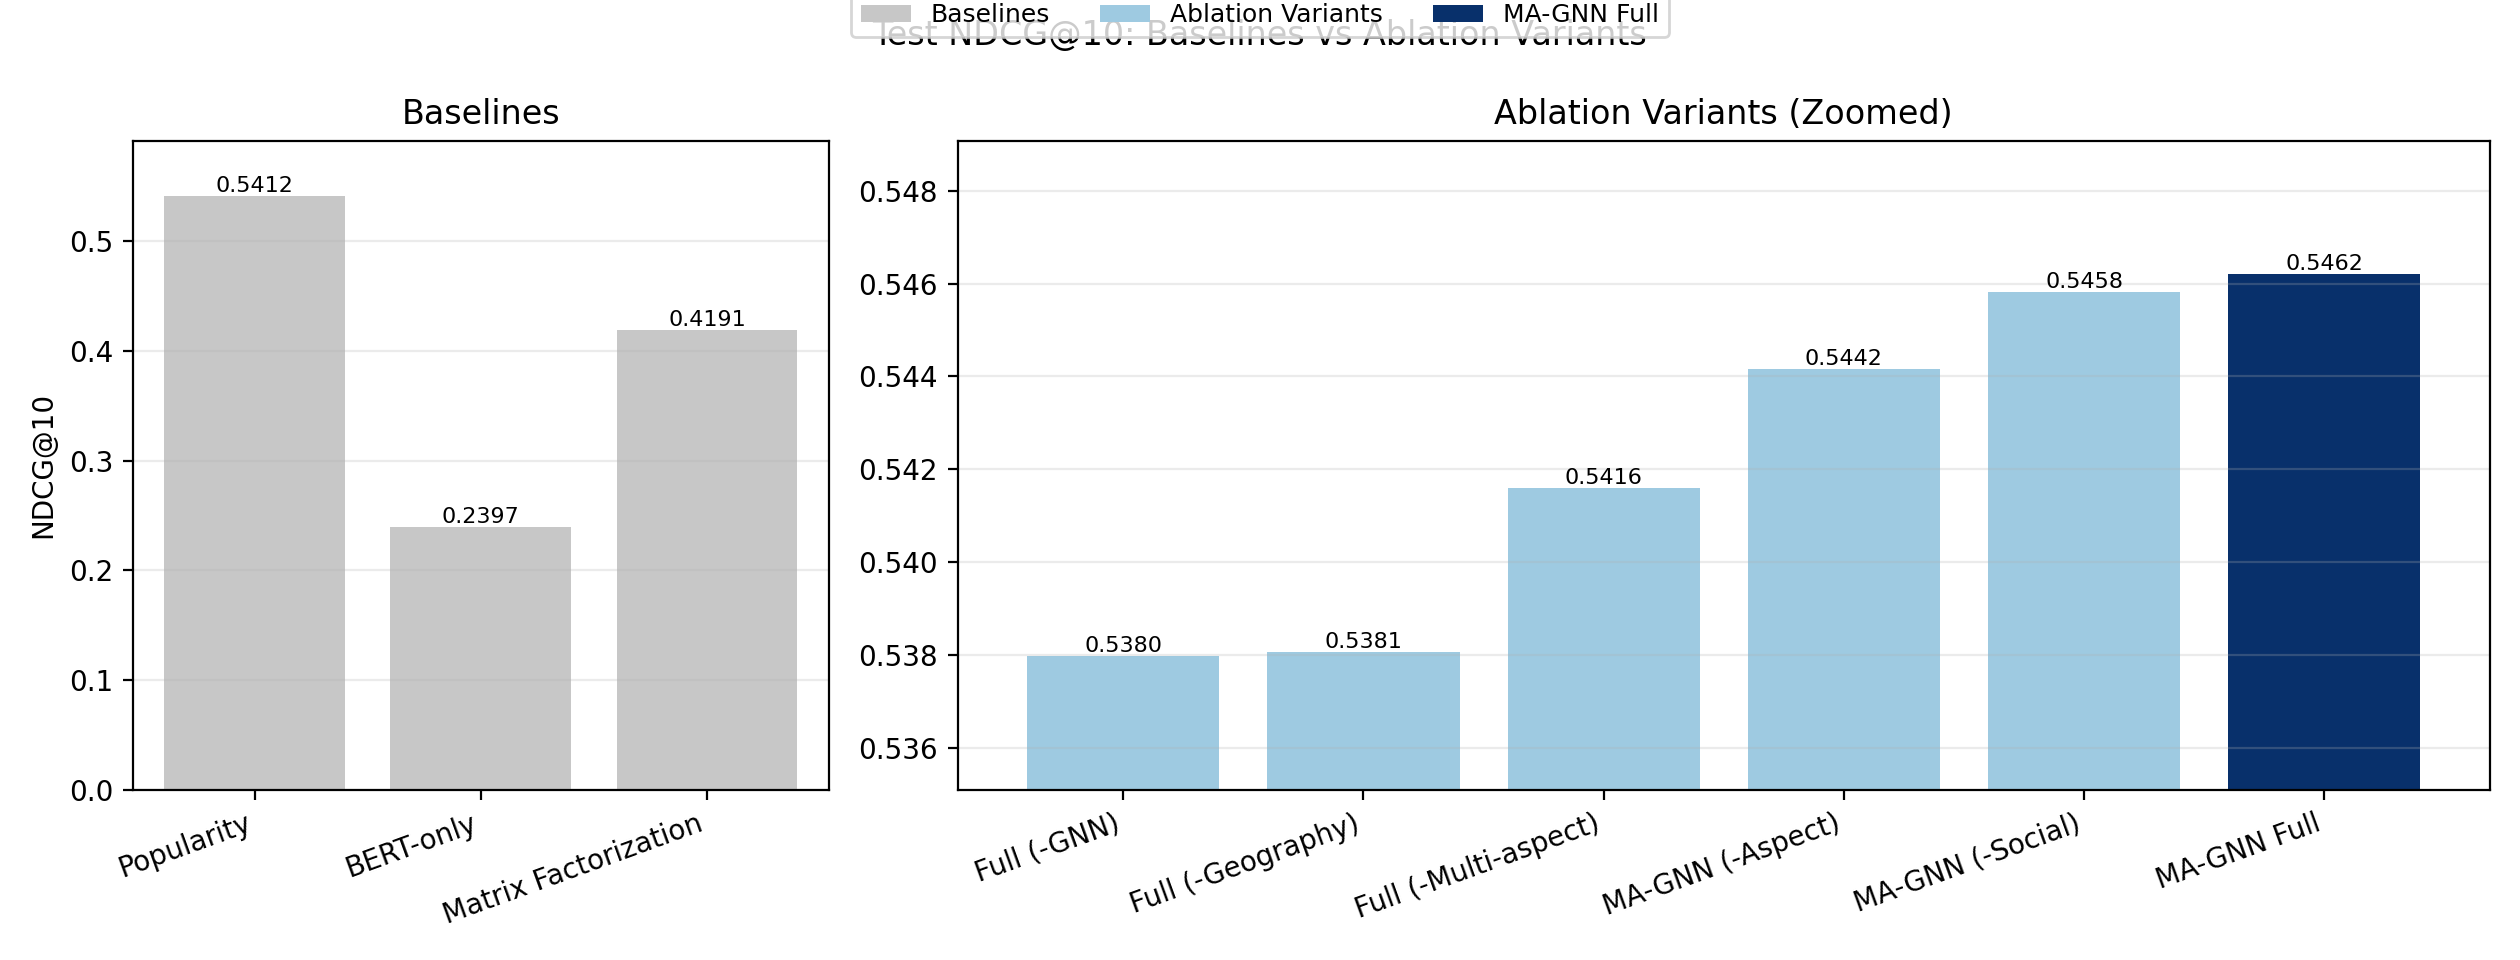
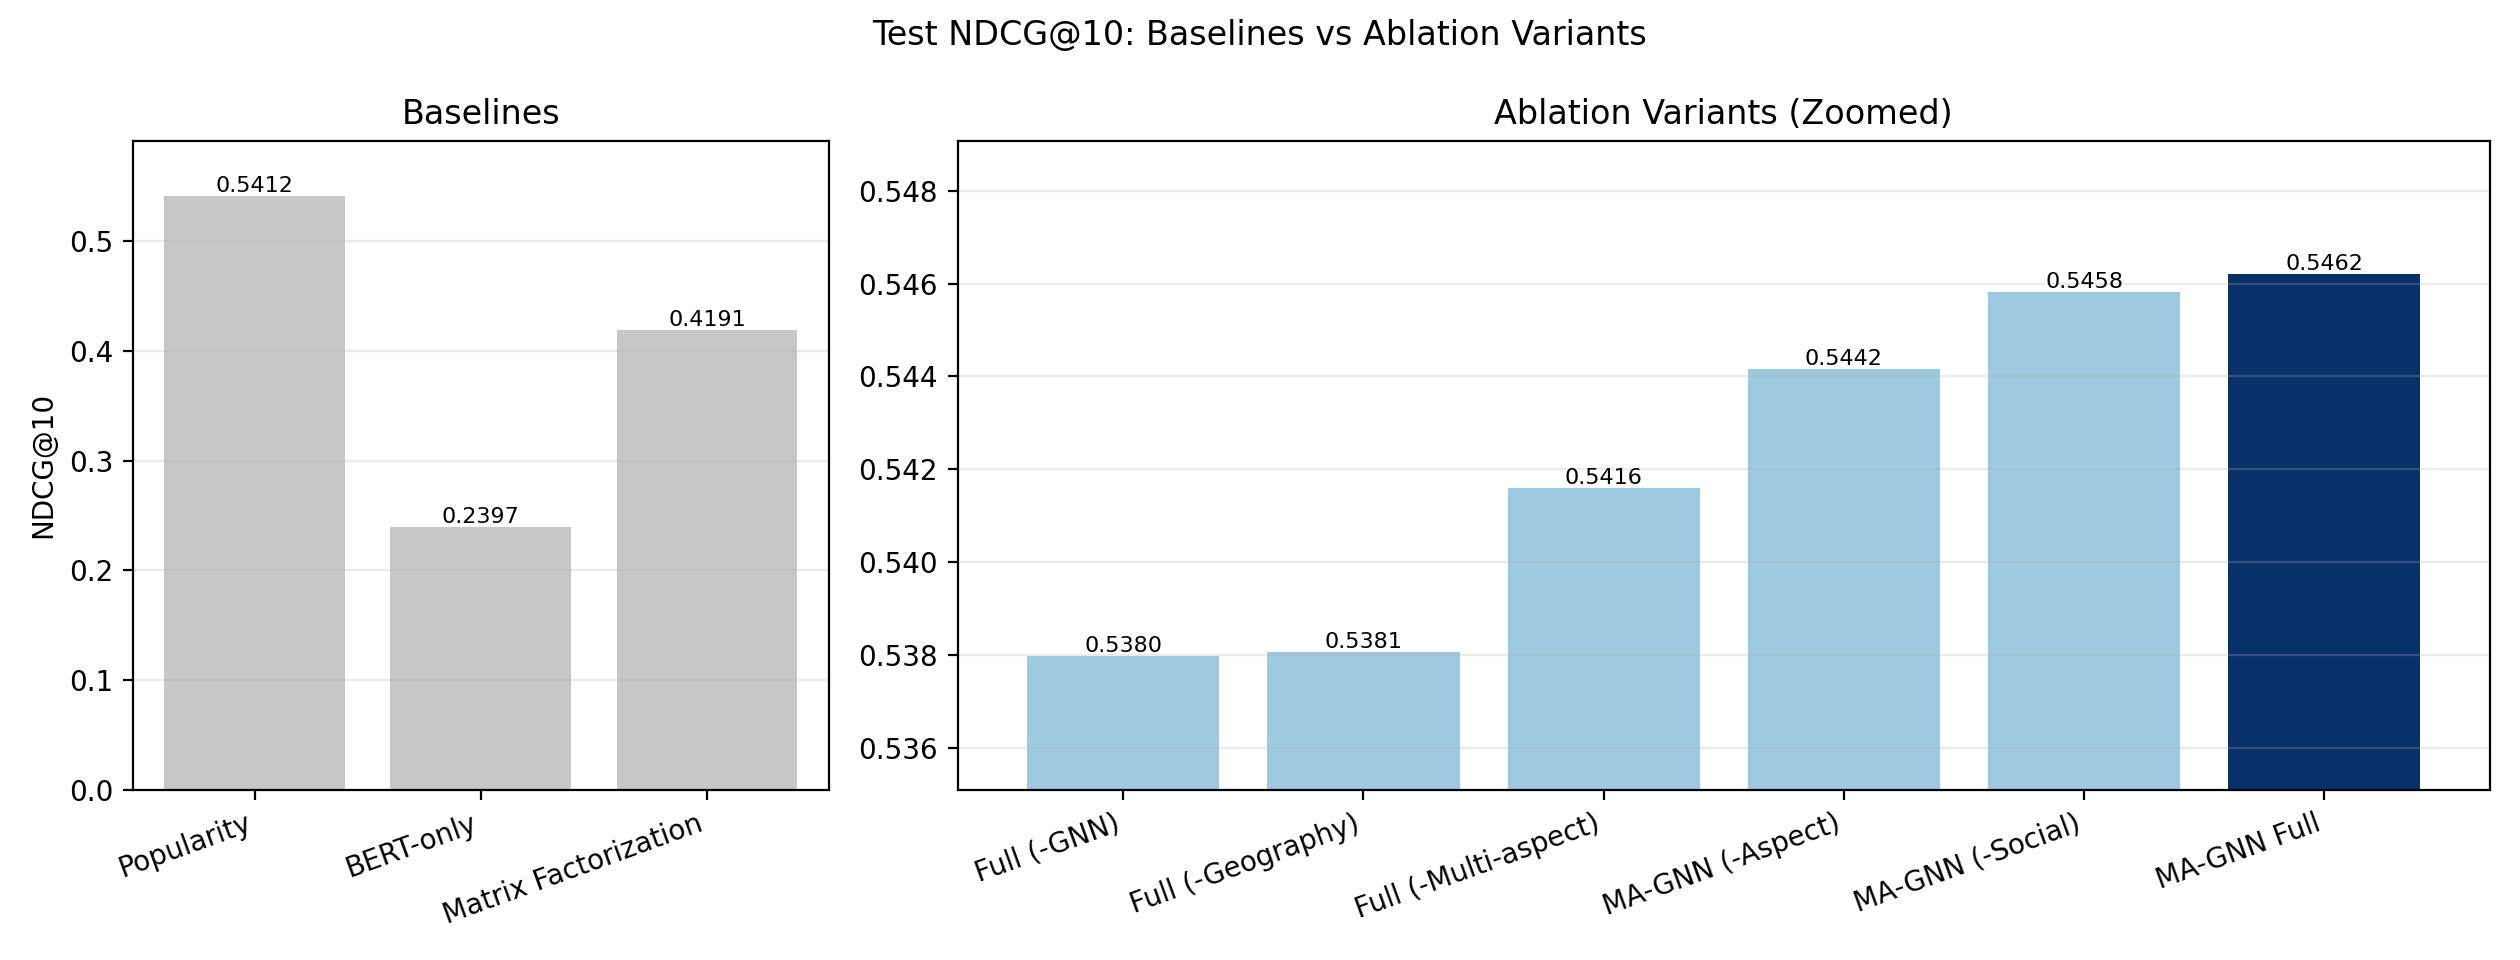
fix图的bug

Changed region(s): [[0.3405, 0.0, 0.681, 0.0625]]

diff --git a/scripts/generate_report_assets.py b/scripts/generate_report_assets.py
@@ -424,17 +424,6 @@ def _emit_summary_barplots_and_deltas(rows: list[ResultRow], report_dir: Path, d
                 annotate(ax_a, a_bars, a_vals)
 
             fig.suptitle(title)
-            fig.legend(
-                handles=[
-                    Patch(facecolor=colors_baseline, label="Baselines"),
-                    Patch(facecolor=colors_ablation, label="Ablation Variants"),
-                    Patch(facecolor=color_highlight, label="MA-GNN Full"),
-                ],
-                loc="upper center",
-                bbox_to_anchor=(0.5, 1.02),
-                ncols=3,
-                fontsize=9,
-            )
             _ensure_dir((report_dir / "figures").resolve())
             fig.tight_layout()
             fig.savefig(report_dir / "figures" / out_name, dpi=dpi)
